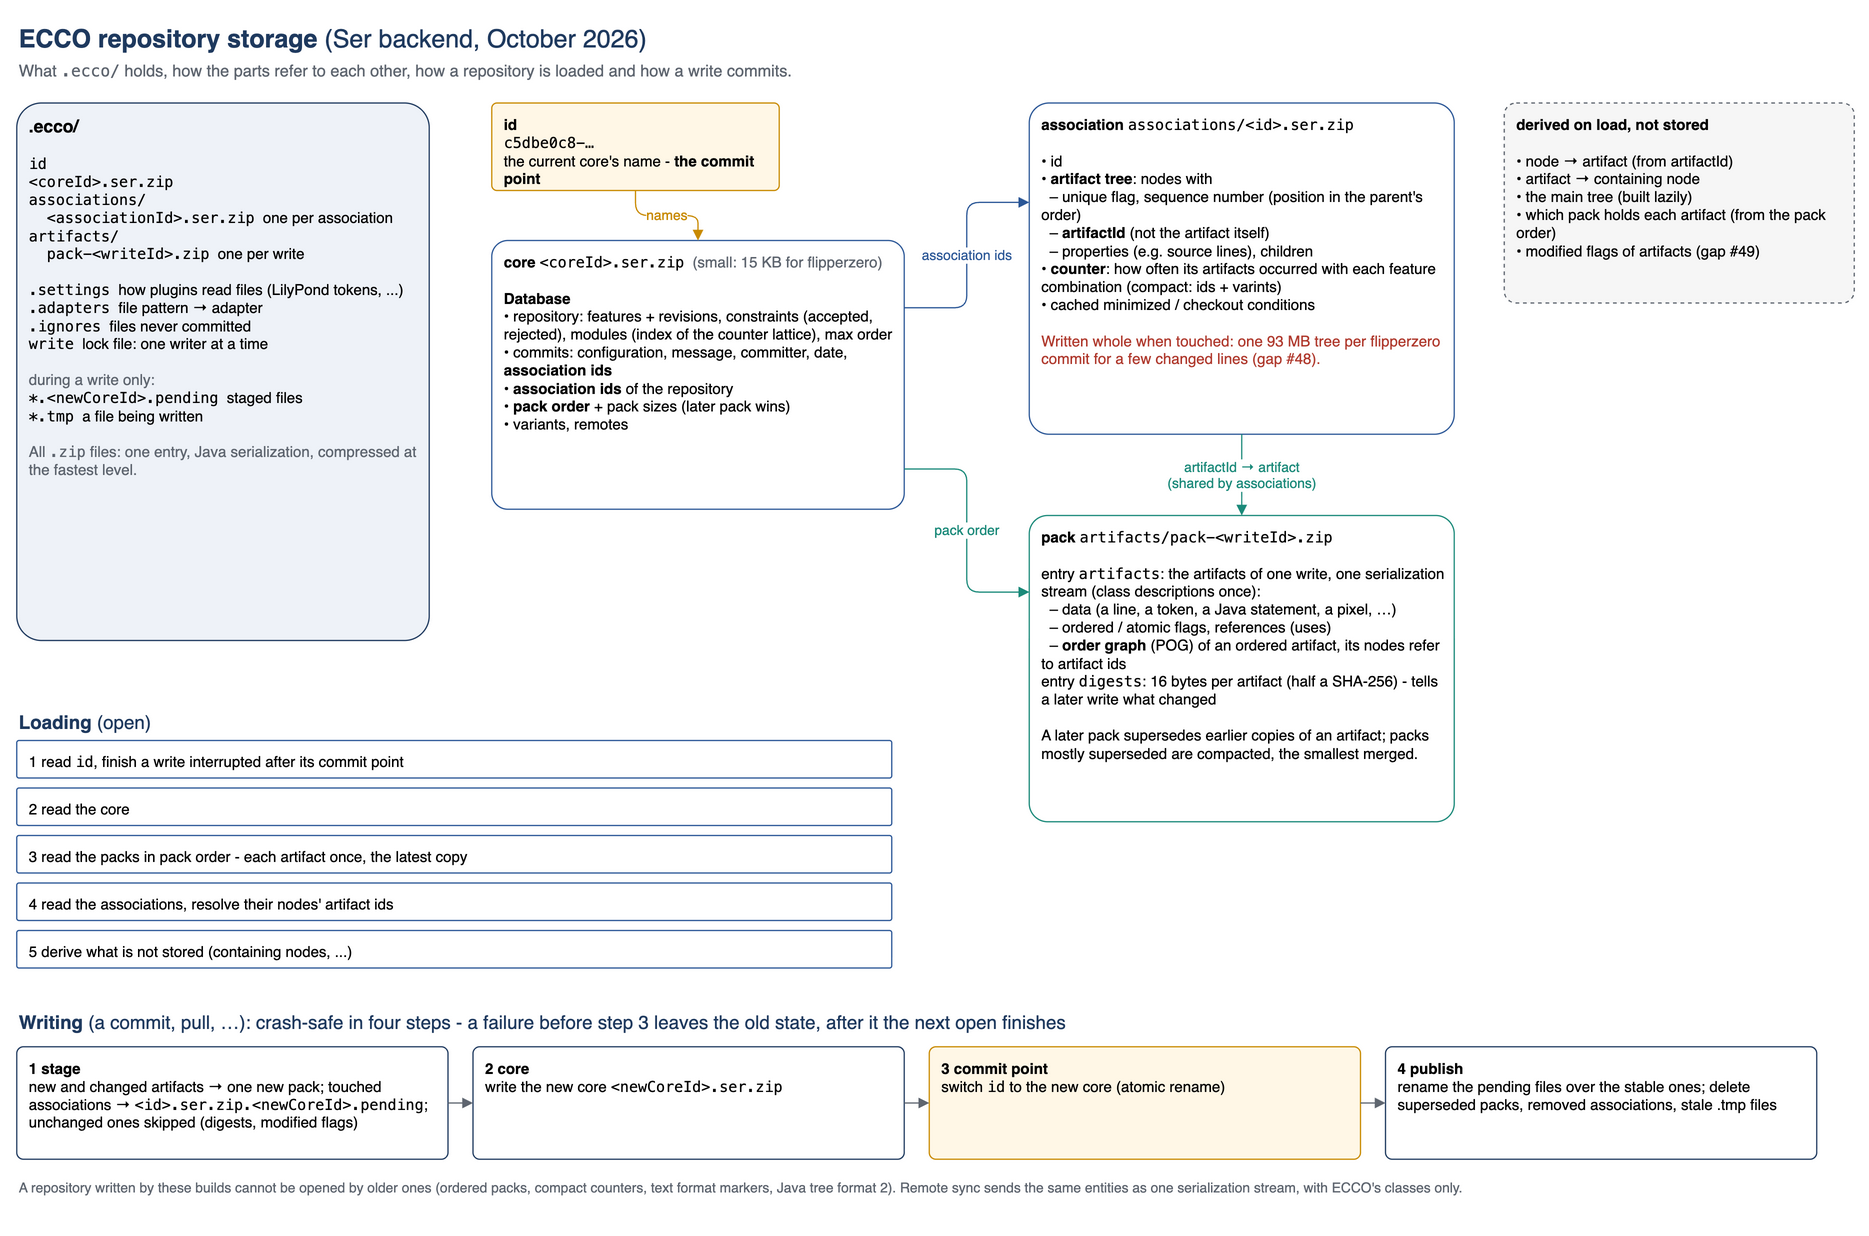
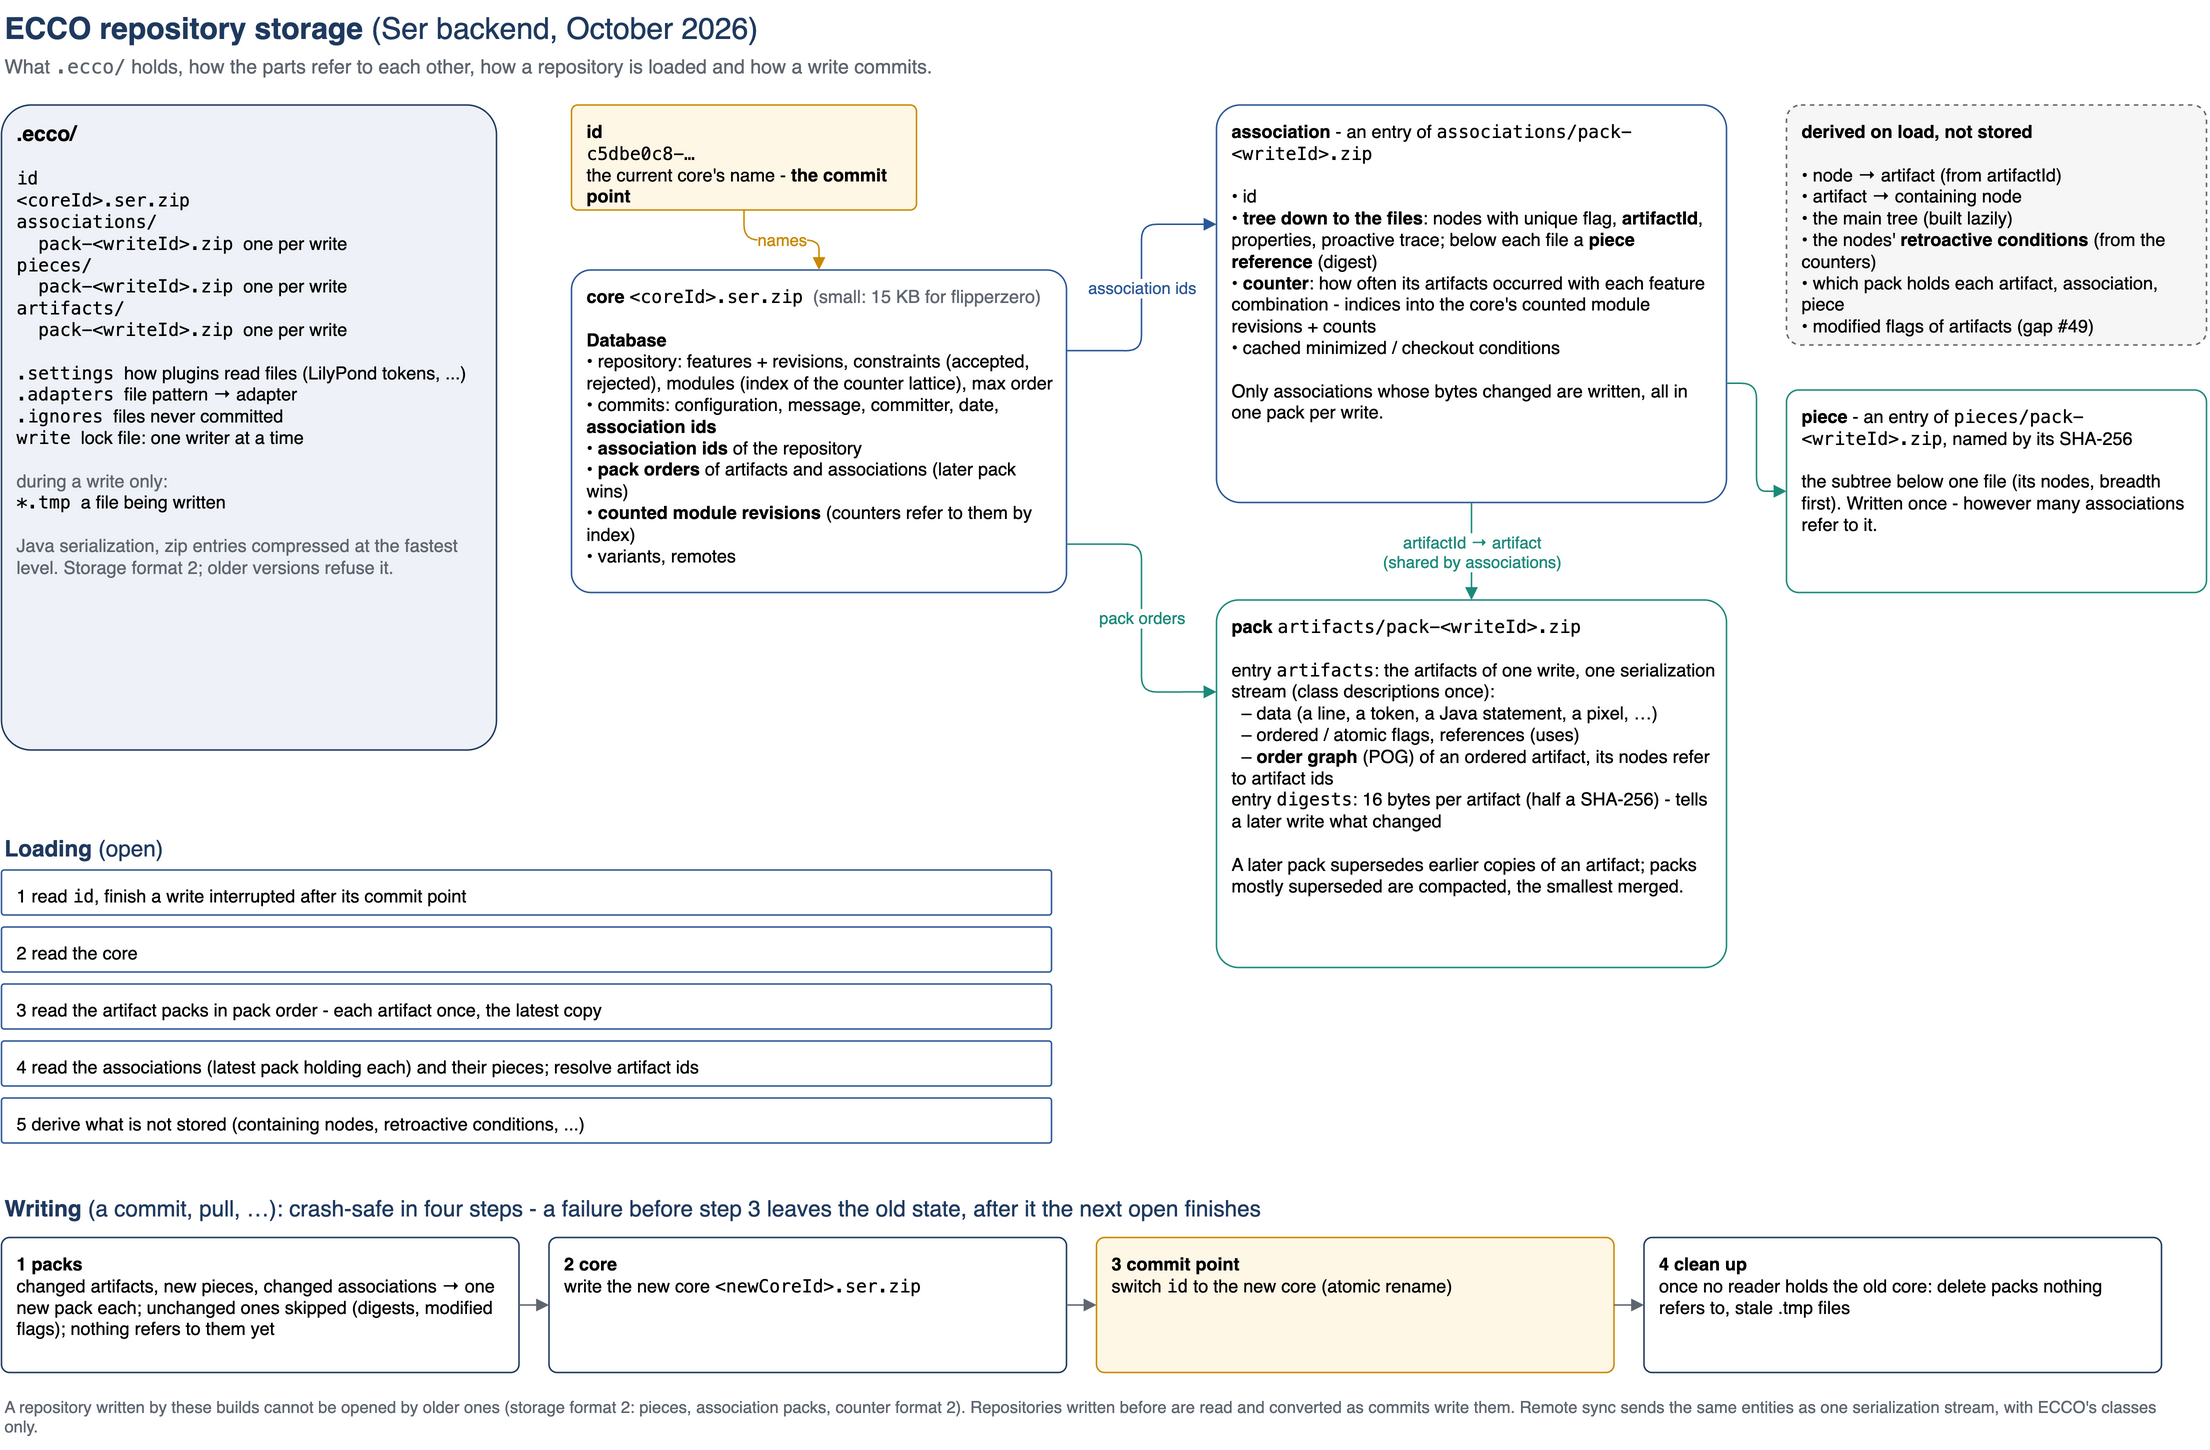
Storage diagram and requirements updated for gap #48 (pieces, association packs, counter format 2)

diff --git a/doc/requirements.md b/doc/requirements.md
@@ -1253,7 +1253,7 @@ None of these were written as targets; they are recovered from refusals in the c
 | --- | --- | --- | --- |
 | NFR-P1 | Commit and checkout should scale to tens of features and variants interactively. | 60 variants / 40 features: commit 1.8 s, checkout 1.1 s, status 0.2 s | History cd764f4e, 81442a9e |
 | NFR-P2 | Opening a repository should take seconds, not minutes. | Real x8 repo: 65 s to 5.3 s | History decb2e37 |
-| NFR-P3 | A commit shall rewrite only what changed. | 15.7 s to 2.6 s after skipping identical writes. Still rewritten: every association a commit touches (#48), and every touched artifact is serialized to find out whether it changed (#49) | History 4bb0961c |
+| NFR-P3 | A commit shall rewrite only what changed. | 15.7 s to 2.6 s after skipping identical writes. Associations: only those whose bytes changed, in pieces and one pack per write (#48, done). Still: every touched artifact is serialized to find out whether it changed (#49) | History 4bb0961c |
 | NFR-P4 | Pixel-granular images should be usable at around 1.7 megapixels. | 71k-px image: commit 67 to 2 s, checkout 157 to 3.4 s | History 7a4e0aec, 47f6f0e5 |
 | NFR-P5 | Storage should stay compact as commits accumulate. | Association files 147 to 13 MB (compact counters); packs 2.5-7x smaller | History 81442a9e, 7c18da73 |
 | NFR-P6 | Merging a file into its partial order graph should not be quadratic in its length; every commit merges every file, changed or not. | Large Git import: one commit 73 s to 19 s, another out of memory to 35 s; a 47-commit LilyPond repository replays to the same checkouts and stored content | History 3c9ce88f (`AlignPathsEquivalenceTest`) |
@@ -1310,7 +1310,7 @@ Requirements the code does not meet, places where the documentation and the code
 | # | Gap | Where | Kind |
 | --- | --- | --- | --- |
 | 8 | Remote sync is unauthenticated; the REST server has hard-coded demo users with plaintext passwords and a default JWT secret, and its roles are never checked. | README; `rest/.../DummyUserDB`, `application.yml` | Security limitation - **hardened 2026-10-03**: the JWT secret key in `application.yml` was misspelled, so tokens were unsigned and a forged unsigned token was accepted for any user - fixed; the server refuses to start without a real secret and a users file (PBKDF2 hashes) outside development mode; the GUI confirms before syncing with other machines. Still open by choice: sync authentication, role checks Next: sync authentication and role checks when the server is used beyond trusted networks. |
-| 48 | Every association a commit touches is written again whole: on flipperzero-firmware about 93 MB serialized per commit, almost all of it the tree of one association (what every variant contains), for a handful of changed lines - about 1.6 s of 3 s storing. | `SerTransactionStrategy.endReadWrite` | Performance - noted 2026-10-13; **measured 2026-10-15** (10 flipperzero commits): the counters are negligible since their compact encoding (2-88 KB per commit), so storing a tree apart from its counters - the fix proposed first - would save nothing. Per file, though, little changes: of about 1,900 files' subtrees in the touched associations, 5-130 change per commit (193-16,410 of 630,000 nodes, at most 2.6%). The large tree moves to a new association id when a commit splits it, so pieces cannot be kept by association: Next (when commit speed on large repositories matters): store an association's tree as per-file pieces addressed by their content (like artifacts in packs), so an unchanged file's piece is written once and found again whichever association holds it - about 1-3% of today's bytes per commit. A storage format change; a verify mode like gap #49's would guard it. A database backend (MapDB, H2 MVStore, SQLite) would not help without this piecewise layout, and with it is not needed. |
+| 48 | Every association a commit touches is written again whole: on flipperzero-firmware about 93 MB serialized per commit, almost all of it the tree of one association (what every variant contains), for a handful of changed lines - about 1.6 s of 3 s storing. | `SerTransactionStrategy.endReadWrite` | Performance - noted 2026-10-13; **measured 2026-10-15** (10 flipperzero commits): the counters are negligible since their compact encoding (2-88 KB per commit), so storing a tree apart from its counters - the fix proposed first - would save nothing. Per file, though, little changes: of about 1,900 files' subtrees in the touched associations, 5-130 change per commit (193-16,410 of 630,000 nodes, at most 2.6%). The large tree moves to a new association id when a commit splits it, so pieces cannot be kept by association: Next (when commit speed on large repositories matters): store an association's tree as per-file pieces addressed by their content (like artifacts in packs), so an unchanged file's piece is written once and found again whichever association holds it - about 1-3% of today's bytes per commit. A storage format change; a verify mode like gap #49's would guard it. A database backend (MapDB, H2 MVStore, SQLite) would not help without this piecewise layout, and with it is not needed. **Done 2026-10-15** (storage format 2, older builds refuse it): trees in content-addressed pieces per file (09426b11), counters as indices into the core's counted module revisions (755e5e70), the changed associations of a write in one pack (395a4c8d). flipperzero association writes 22 MB to 0.2 MB per commit; Desktop/x 47 files / 9.3 MB to 5 files / 2.2 MB per commit; checkouts identical (flipperzero replay with verify on, tinycc and zip4j). Older repositories are read and converted as commits write them. |
 | 55 | Image adapter limits found by its round-trip tests: 16-bit images are stored with 8 bits per channel; transparent pixels lose their colour (transparent white becomes transparent black); interlaced GIFs 2-4 rows high are read with shifted rows (a JDK bug); grayscale pixels committed before 2026-10-14 are stored brightened (gray taken as linear) - a checkout combining such commits with later ones can mix brightened and true gray levels in one image, and the adapter's format is not versioned, so nothing refuses it (re-commit the variants). | `ImageReader`, `ImageUtil` | Limitations - noted 2026-10-14; `ImageRoundTripTest` A truncated JPEG, committed without an error (the decoder filled in the rest), is refused since 2026-10-15 - an image the decoder reads with warnings is stored whole by the file adapter (`ImageRoundTripTest`). Next: 16-bit channels would need another pixel format (a format change). |
 | 56 | Repositories committed with the first C++ format (checkout-only): a `case` on its own line loses the block under it when another variant has a same-line `case` (`CaseBlockArtifactData.equals` ignores `sameline`) - inherited from that adapter, the old build checks out the same. | `LegacyCppWriter` | Data loss in retired data - noted 2026-10-14; `LegacyCppWriterTest` (disabled case) Next: none unless such a repository is in use - fixing it would change how old repositories check out. |
 
